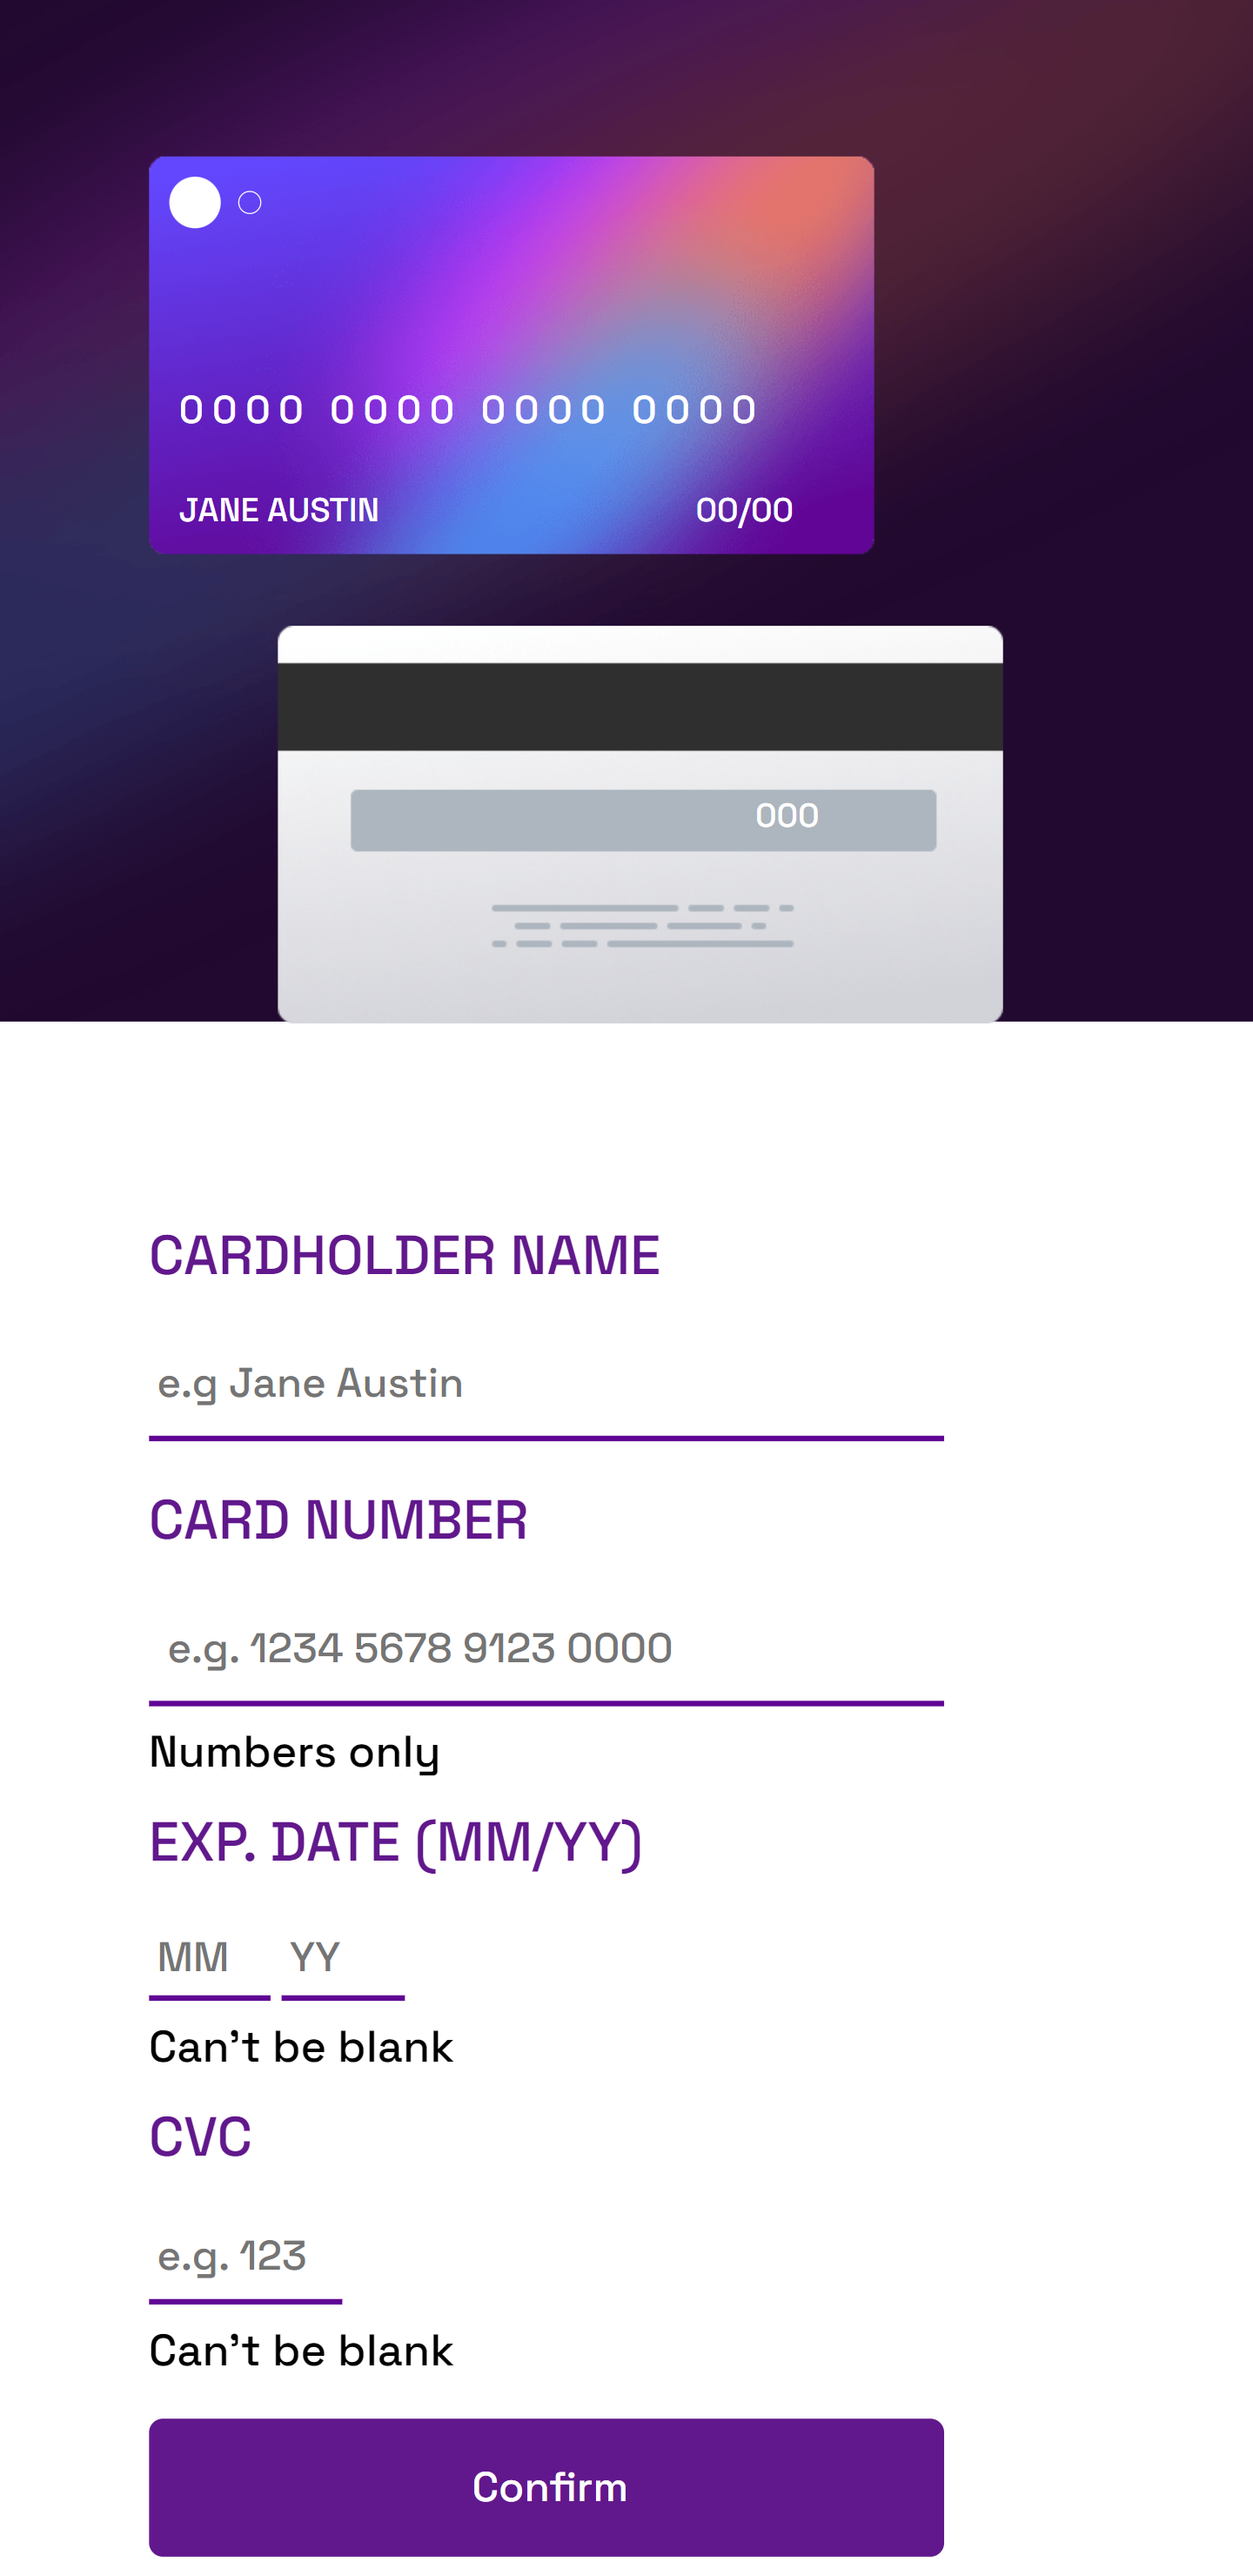
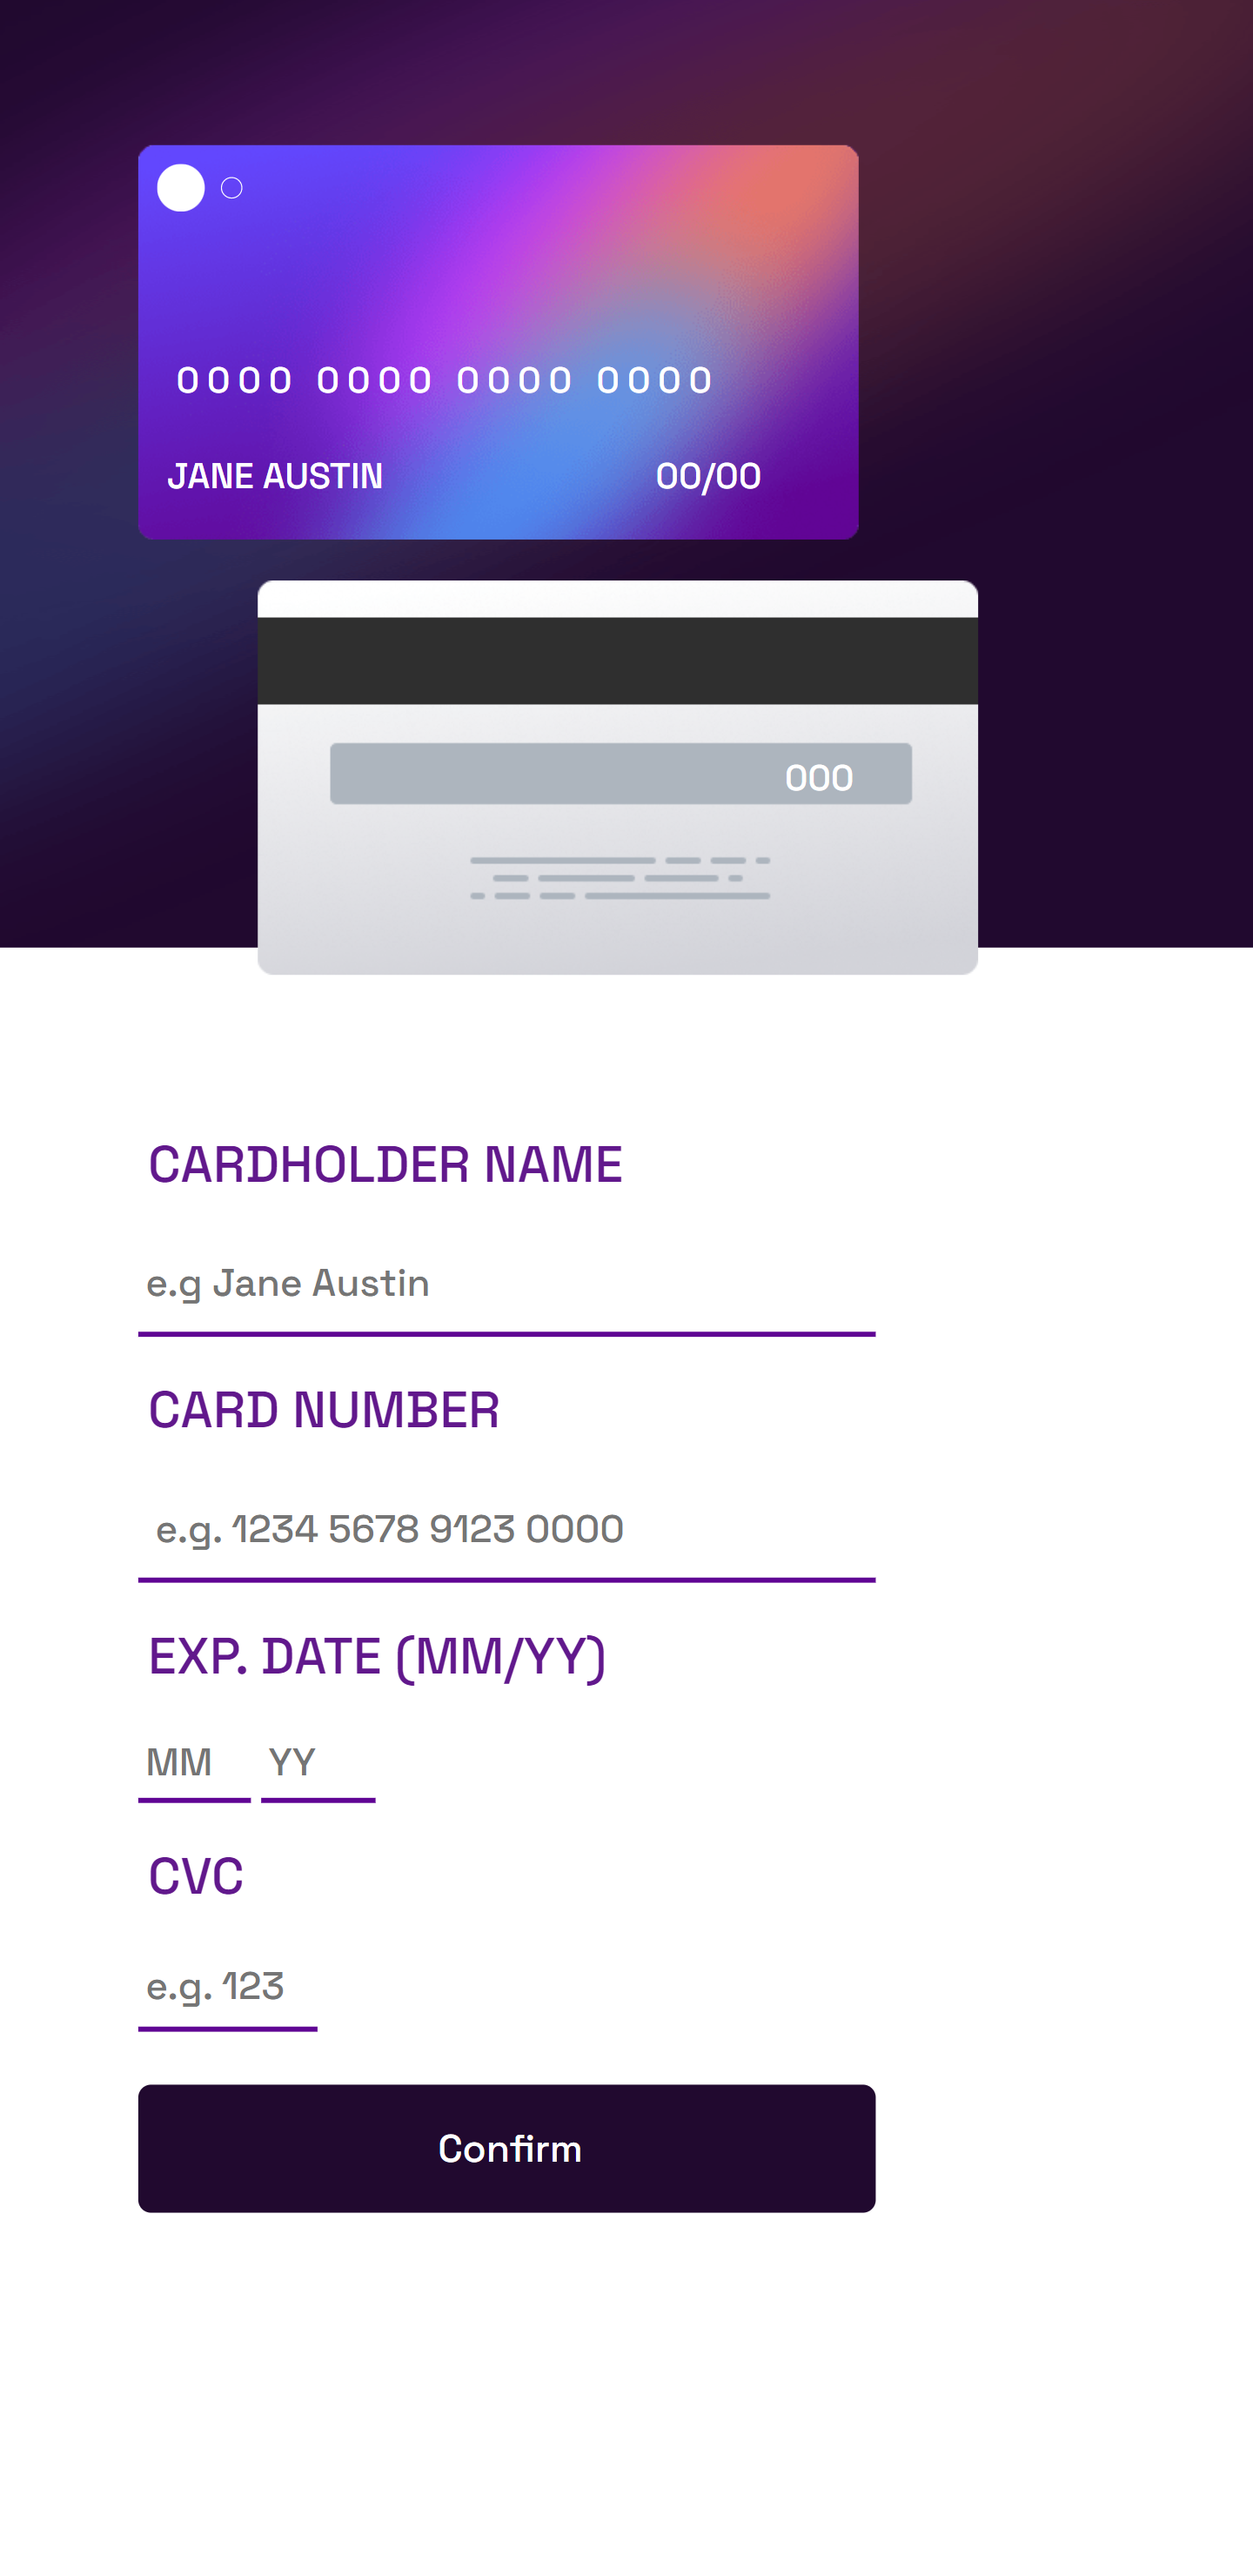
correcao de erros responsividade

Changed region(s): [[0.0938, 0.4351, 0.75, 0.9946], [0.0, 0.0311, 1.0, 0.4041], [0.4375, 0.6838, 0.5, 0.7149]]

diff --git a/index.css b/index.css
@@ -18,7 +18,6 @@ body{
     flex-direction: column;
     position: relative;
 }
-
 /* Background Header */
 header{
     width: 40%
@@ -38,38 +37,38 @@ header{
 }
 #card-front{
     position: absolute;
-    width: 45%;
+    width: 35%;
     left: 15vw;
-    top: -80vh;
+    top: -140vh;
 }
 #card-logo{
     position: absolute;
     width: 6%;
     left: 17vw;
-    top: -77vh;
+    top: -138vh;
 }
 #name-card{
     color: hsl(0, 0%, 100%);
     position: absolute;
     font-size: 15px;
-    left: 18vw;
-    top: -58vh;
+    left: 16vw;
+    top: -113vh;
     text-transform: uppercase;
 }
 #numb-card{
     color: hsl(0, 0%, 100%);
     position: absolute;
     font-size: 20px;
-    left: 18vw;
-    top: -64vh;
+    left: 16vw;
+    top: -122vh;
     letter-spacing: 3px;
 }
 #exp-card{
     color: hsl(0, 0%, 100%);
     position: absolute;
     font-size: 15px;
-    left: 36vw;
-    top: -58vh;
+    left: 34vw;
+    top: -113vh;
 }
 /* Image card - back */
 .card-cont-back{
@@ -77,16 +76,16 @@ header{
 }
 #card-back{
     position: absolute;
-    width: 45%;
-    left: 20vw ;
-    top: -48vh;
+    width: 35%;
+    left: 17vw ;
+    top: -99vh;
 }
 #cvc-card{
     color: hsl(0, 0%, 100%);
     position: absolute;
     font-size: 15px;
-    left: 45vw;
-    top: -35vh;
+    left: 38vw;
+    top: -85vh;
 }
 
 /* Form */
@@ -100,14 +99,14 @@ form{
     width: 500px;
     background-color: #fff;
     padding: 25px;
-    top: 25vh;
+    top: 20vh;
     left: 55vw;
 }
 label{
     text-transform: uppercase;
     display: block;
     width: 100%;
-    margin: 9px 0px;
+    margin: 9px 10px;
     font-size: 18px;
     position: relative;
     color: hsl(278, 71%, 32%);
@@ -120,7 +119,7 @@ input{
     width: 30vw;
     height: 40px;
     padding-left: 3px;
-    margin: 8px 5px;
+    margin: 8px 9px;
 }
 
 input:focus, label:focus{
@@ -158,138 +157,107 @@ input[type="submit"]:hover{
     background-color: hsl(278, 71%, 32%);
 }
 
-/* Footer */
-footer{
-    padding-top: 20px;
-    width: 100%;
-    height: 30px;
-    display: flex;
-    justify-content: center;
-    text-align: center;
-}
-.attribution { 
-    font-size: 10px; 
-    text-align: center; 
-}
-.attribution a { 
-    color: hsl(228, 45%, 44%); 
-}
 
 
 /* Responsive screens */
-/* Laptop*/
-@media (max-width: 1025px){
+/*Desktop 1440x900 */
+@media (min-width:1439px){
     #card-front{
-        width: 39%;
-    }
+        width: 35%;
+        left: 15vw;
+        top: -90vh;
+    } 
     #card-logo{
-        width: 5%;
+        top: -88vh;
     }
     #name-card{
-        top: -61vh;
-    }
-
-    #numb-card{
-        font-size: 18px;
-        left: 18vw;
-        top: -67vh;
-        width: 40vw;
-    }
-    #exp-card{
-        left: 36vw;
-        top: -61vh;
-    }
-    /* Image card - back */
-    #card-back{
-        width: 39%;
-        left: 17vw ;
-        top: -53vh;
-    }
-    #cvc-card{
-        left: 47vw;
-        top: -43vh;
-    }
-    
-    /* Form */
-    form{
-        position: relative;
-    }
-
-    #form-content{
-        left: 59vw;
-    }
-
-    label{
-        width: 20vw;
-    }
-    input{
-        width: 26vw;
-        height: 40px;
-        margin: 6px 0;
-    }
-}
-/* Ipad Air */
-@media (max-width:821px){
-    .backgrounds img{
-        width: 100vw;
-        height: 45vh;
-    }
-    #card-front{
-        width: 45%;
-        top:-41vh
-    }
-    #card-logo{
-        width: 9%;
-        top: -40vh ;
-    }
-    #card-back{
-        width: 43%;
-        top:-22vh;
-        left: 28vw;
-    }
-    #cvc-card{
-        top: -16vh;
-        left: 61vw;
-    }
-    #name-card{
-        top: -28vh;
+        top: -73vh;
     }
     #numb-card{
-        font-size: 19px;
-        top: -32vh;
+        top: -78vh;
     }
     #exp-card{
-        left: 46vw;
-        top: -28vh;
-        font-size: 14px;
+        left: 33vw;
+        top: -73vh;
+    }
+    #card-back{
+        left: 19vw;
+        top: -65vh;
+    }
+    #cvc-card{
+        left: 38vw;
+        top: -56vh;
     }
     #form-content{
         width: 500px;
-        top: 50vh;
-        left: 16vw;
+        top: 18vh;
+        left: 45vw;
     }
     label{
-        width: 40vw;
-        font-size: 20px;
+        width: 100%;
+        margin: 9px 10px;
+        font-size: 18px;
     }
     input{
-        width: 48vw;
-        font-size: 15px;
+        margin: 8px 9px;
     }
-    input[type="submit"]{
-        width: 48vw;
-        height: 50px;
-    }
+} 
 
-}
+/* Laptop */
+@media (max-width: 1025px){
+    #card-front{
+        width: 35%;
+        top: -100vh;
+    }
+    #card-logo{
+        width: 6%;
+        top: -98vh;
+    }
+    #name-card{
+        top: -80vh;
+        left: 17vw;
+    }
+    #numb-card{
+        font-size: 19px;
+        left: 17vw;
+        top: -86vh;
+        width: 45vw;
+    }
+    #exp-card{
+        left: 38vw;
+        top: -80vh;
+    }
+    #card-back{
+        width: 35%;
+        left: 17vw ;
+        top: -65vh;
+    }
+    #cvc-card{
+        left: 45vw;
+        top: -55vh;
+    }
+    #form-content{
+        left: 59vw;
+    }
+    label{
+        width: 20vw;
+        margin: 9px 4px;
+    }
+    input{
+        width: 30vw;
+        height: 40px;
+        margin: 6px 0;
+    }
+} 
+
 /* Galaxy S8+ */
 @media (max-width:361px){
     .backgrounds img{
-        width: 127vw;
+        width: 136vw;
         height: 50vh;
     }
     #card-front{
-        width: 70%;
+        width: 75%;
         top:-43vh
     }
     #card-logo{
@@ -298,27 +266,28 @@ footer{
     }
     #name-card{
         top: -28vh;
-        font-size: 12px;
+        font-size: 14px;
     }
     #numb-card{
         width: 60vw;
         font-size: 14px;
+        left: 18vw;
         top: -33vh;
     }
     #exp-card{
         left: 70vw;
         top: -28vh;
-        font-size: 12px;
+        font-size: 14px;
     }
     #card-back{
-        width: 70%;
+        width: 75%;
         top:-20vh;
         left: 28vw;
     }
     #cvc-card{
-        top: -13vh;
-        left: 76vw;
-        font-size: 12px;
+        top: -12vh;
+        left: 84vw;
+        font-size: 14px;
     }
     #form-content{
         width: 360px;
@@ -337,5 +306,4 @@ footer{
         width: 80vw;
         height: 50px;
     }
-
-}
+} 
